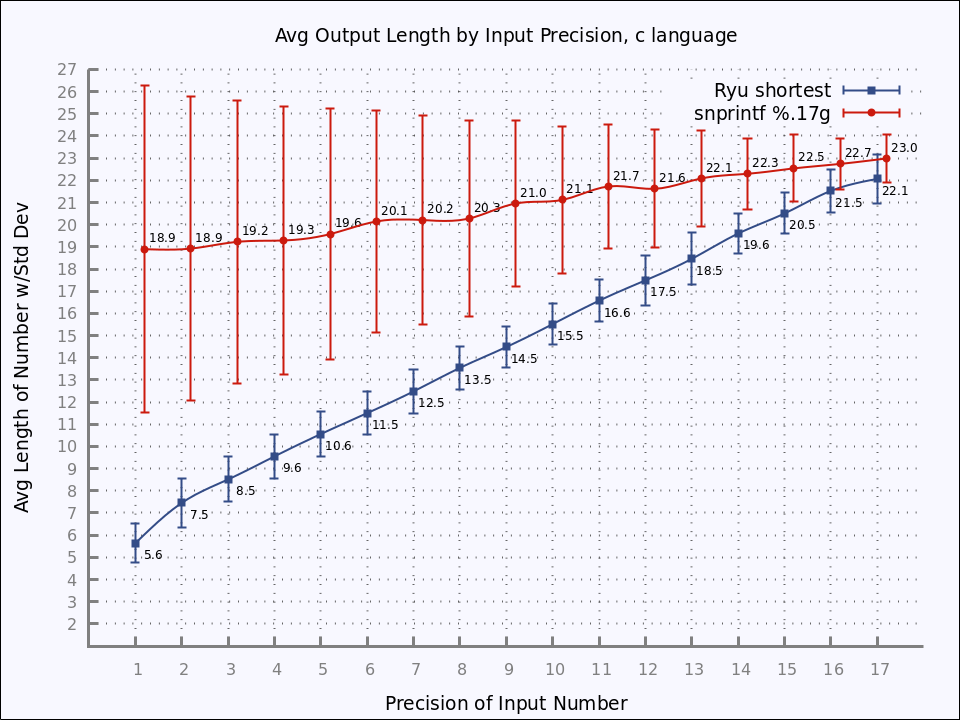
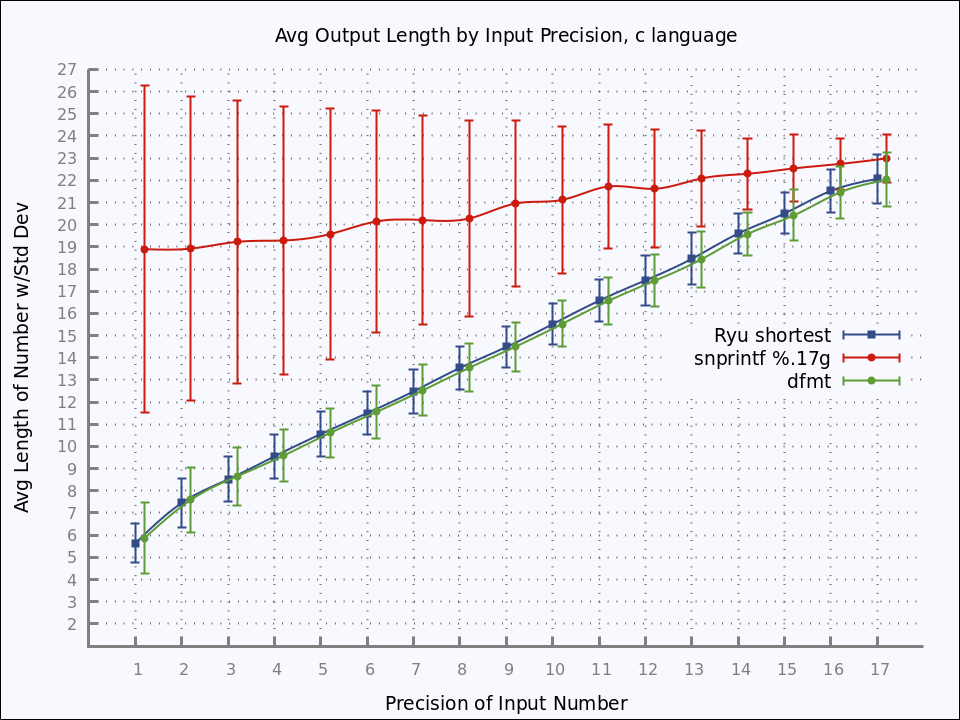
Initial quick and dirty implementation of dfmt.

diff --git a/src/c/ryu/d2s.c b/src/c/ryu/d2s.c
@@ -37,8 +37,8 @@
 
 #ifdef RYU_DEBUG
 #include <inttypes.h>
-#include <stdio.h>
 #endif
+#include <stdio.h>
 
 #include "ryu/common.h"
 #include "ryu/digit_table.h"
@@ -505,5 +505,127 @@ void d2s_buffered(double f, char* result) {
 char* d2s(double f) {
   char* const result = (char*) malloc(25);
   d2s_buffered(f, result);
+  return result;
+}
+
+int to_fixed_chars(char* result, int len, uint64_t mantissa, int32_t exponent) {
+    int neg = 0;
+    if (result[0] == '-') {
+        neg = 1;
+        result++;
+    }
+    if (exponent == 0) {
+        if (result[1] == '.') {
+            // 1.132E0 just strip off E0
+            return len - 2;
+        } else {
+            // 4E0 -> 4.0
+            const uint32_t olength = decimalLength17(mantissa);
+            result[olength] = '.';
+            result[olength + 1] = '0';
+            return 3 + neg;
+        }
+    }
+    else {
+        if (exponent > 0) {
+            if (result[1] == '.') {
+                const uint32_t olength = decimalLength17(mantissa);
+                memmove(result + 1, result + 2, exponent);
+                if (exponent + 1 >= olength) {
+                    if (exponent + 1 > olength) {
+                        memset(result + olength, '0', exponent + 1 - olength);
+                    }
+                    result[exponent + 1] = '.';
+                    result[exponent + 2] = '0';
+                    return exponent + 3 + neg;
+                } else {
+                    result[exponent + 1] = '.';
+                    return len - (decimalLength17(exponent) + 1);
+                }
+            } else {
+                memset(result + 1, '0', exponent);
+                result[exponent + 1] = '.';
+                result[exponent + 2] = '0';
+                return exponent + 3 + neg;
+            }
+        }
+        else {
+            const uint32_t elength = decimalLength17(exponent * -1) + 2;
+            if (result[1] == '.') {
+                memmove(result + 2 - exponent, result + 2, (len - elength) - 2 );
+                result[1 - exponent] = result[0];
+                memset(result, '0', 1 - exponent);
+                result[1] = '.';
+                return (len - elength) - exponent;
+            } else {
+                result[1 - exponent] = result[0];
+                memset(result, '0', 1 - exponent);
+                result[1] = '.';
+                return (len - elength) - exponent + 1;
+            }
+        }
+    }
+    return len;
+}
+
+int dfmt_n(double f, char* result) {
+  // Step 1: Decode the floating-point number, and unify normalized and subnormal cases.
+  const uint64_t bits = double_to_bits(f);
+
+#ifdef RYU_DEBUG
+  printf("IN=");
+  for (int32_t bit = 63; bit >= 0; --bit) {
+    printf("%d", (int) ((bits >> bit) & 1));
+  }
+  printf("\n");
+#endif
+
+  // Decode bits into sign, mantissa, and exponent.
+  const bool ieeeSign = ((bits >> (DOUBLE_MANTISSA_BITS + DOUBLE_EXPONENT_BITS)) & 1) != 0;
+  const uint64_t ieeeMantissa = bits & ((1ull << DOUBLE_MANTISSA_BITS) - 1);
+  const uint32_t ieeeExponent = (uint32_t) ((bits >> DOUBLE_MANTISSA_BITS) & ((1u << DOUBLE_EXPONENT_BITS) - 1));
+  // Case distinction; exit early for the easy cases.
+  if (ieeeExponent == ((1u << DOUBLE_EXPONENT_BITS) - 1u) || (ieeeExponent == 0 && ieeeMantissa == 0)) {
+    return copy_special_str(result, ieeeSign, ieeeExponent, ieeeMantissa);
+  }
+
+  floating_decimal_64 v;
+  const bool isSmallInt = d2d_small_int(ieeeMantissa, ieeeExponent, &v);
+  if (isSmallInt) {
+    // For small integers in the range [1, 2^53), v.mantissa might contain trailing (decimal) zeros.
+    // For scientific notation we need to move these zeros into the exponent.
+    // (This is not needed for fixed-point notation, so it might be beneficial to trim
+    // trailing zeros in to_chars only if needed - once fixed-point notation output is implemented.)
+    for (;;) {
+      const uint64_t q = div10(v.mantissa);
+      const uint32_t r = ((uint32_t) v.mantissa) - 10 * ((uint32_t) q);
+      if (r != 0) {
+        break;
+      }
+      v.mantissa = q;
+      ++v.exponent;
+    }
+  } else {
+    v = d2d(ieeeMantissa, ieeeExponent);
+  }
+
+  int len;
+  const uint32_t olength = decimalLength17(v.mantissa);
+  int32_t exp = v.exponent + (int32_t) olength - 1;
+  if ( exp <= -5 || exp >= 17) {
+      len = to_chars(v, ieeeSign, result);
+  } else {
+      len = to_chars(v, ieeeSign, result);
+      len = to_fixed_chars(result, len, v.mantissa, exp);
+  }
+
+  return len;
+}
+
+char *dfmt(double f, char* result) {
+  const int index = dfmt_n(f, result);
+
+  // Terminate the string.
+  result[index] = '\0';
   return result;
 }

diff --git a/src/c/ryu/benchmark/benchmark_shortest.c b/src/c/ryu/benchmark/benchmark_shortest.c
@@ -83,8 +83,9 @@ double generate_double(uint64_t* r) {
 
 static int bench64_general(const uint32_t samples, const uint32_t iterations, int alt, const bool parse, const bool csv, const bool verbose, const bool length) {
   char input[BUFFER_SIZE];
-  char bufferown[BUFFER_SIZE];
-  char buffer[BUFFER_SIZE];
+  char buffer_d2s[BUFFER_SIZE];
+  char buffer_dfmt[BUFFER_SIZE];
+  char buffer_snprintf[BUFFER_SIZE];
   int precision = 0;
   char fmt[100];
   int throwaway = 0;
@@ -100,6 +101,10 @@ static int bench64_general(const uint32_t samples, const uint32_t iterations, in
     init(&mv3);
     mean_and_variance mv4;
     init(&mv4);
+    mean_and_variance mv5;
+    init(&mv5);
+    mean_and_variance mv6;
+    init(&mv6);
     for (int i = 0; i < samples; ++i) {
       uint64_t r = 0;
       double f = generate_double(&r);
@@ -111,50 +116,68 @@ static int bench64_general(const uint32_t samples, const uint32_t iterations, in
 
       clock_t t1 = clock();
       for (int j = 0; j < iterations; ++j) {
-        d2s_buffered(f, bufferown);
-        throwaway += bufferown[2];
+        d2s_buffered(f, buffer_d2s);
+        throwaway += buffer_d2s[2];
       }
       clock_t t2 = clock();
       double delta1 = ((t2 - t1) * 1000000000.0) / ((double) iterations) / ((double) CLOCKS_PER_SEC);
       update(&mv1, delta1);
-      update(&mv3, (double) strlen(bufferown));
+      update(&mv2, (double) strlen(buffer_d2s));
 
       double delta2 = 0.0;
       t1 = clock();
       for (int j = 0; j < iterations; ++j) {
-        snprintf(buffer, BUFFER_SIZE, "%.17g", f);
-        throwaway += buffer[2];
+        snprintf(buffer_snprintf, BUFFER_SIZE, "%.17g", f);
+        throwaway += buffer_snprintf[2];
       }
       t2 = clock();
       delta2 = ((t2 - t1) * 1000000000.0) / ((double) iterations) / ((double) CLOCKS_PER_SEC);
-      update(&mv2, delta2);
-      update(&mv4, (double) strlen(buffer));
+      update(&mv3, delta2);
+      update(&mv4, (double) strlen(buffer_snprintf));
+
+      double delta3 = 0.0;
+      t1 = clock();
+      for (int j = 0; j < iterations; ++j) {
+        dfmt(f, buffer_dfmt);
+        throwaway += buffer_dfmt[2];
+      }
+      t2 = clock();
+      delta3 = ((t2 - t1) * 1000000000.0) / ((double) iterations) / ((double) CLOCKS_PER_SEC);
+      update(&mv5, delta3);
+      update(&mv6, (double) strlen(buffer_dfmt));
 
       // verbose implies csv
       if (verbose) {
         if (length) {
-            printf("%s,%" PRIu64 ",%f,%f,%s\n", bufferown, r, (double) strlen(bufferown), (double) strlen(buffer), buffer);
+            printf("%s,%" PRIu64 ",%f,%f,%f,%s,%s\n", buffer_d2s, r, (double) strlen(buffer_d2s), (double) strlen(buffer_snprintf), (double) strlen(buffer_dfmt), buffer_snprintf, buffer_dfmt);
         } else {
-            printf("%s,%" PRIu64 ",%f,%f,%s\n", bufferown, r, delta1, delta2, buffer);
+            printf("%s,%" PRIu64 ",%f,%f,%f,%s,%s\n", buffer_d2s, r, delta1, delta2, delta3, buffer_snprintf, buffer_dfmt);
         }
       }
     }
     if (!verbose) {
       if (length) {
         if (csv) {
-          printf("%d,%.3f,%.3f,", precision, mv3.mean, stddev(&mv3));
-          printf("%.3f,%.3f", mv4.mean, stddev(&mv4));
+          printf("%d,", precision);
+          printf("%.3f,%.3f,", mv2.mean, stddev(&mv2));
+          printf("%.3f,%.3f,", mv4.mean, stddev(&mv4));
+          printf("%.3f,%.3f", mv6.mean, stddev(&mv6));
         } else {
-          printf("%d %8.3f %8.3f", precision, mv3.mean, stddev(&mv3));
+          printf("%d", precision);
+          printf("%8.3f %8.3f", mv2.mean, stddev(&mv2));
           printf("     %8.3f %8.3f", mv4.mean, stddev(&mv4));
+          printf("     %8.3f %8.3f", mv6.mean, stddev(&mv6));
         }
       } else {
         if (csv) {
-          printf("%d,%.3f,%.3f,", precision, mv1.mean, stddev(&mv1));
-          printf("%.3f,%.3f", mv2.mean, stddev(&mv2));
+          printf("%d,", precision);
+          printf("%.3f,%.3f,", mv1.mean, stddev(&mv1));
+          printf("%.3f,%.3f,", mv3.mean, stddev(&mv3));
+          printf("%.3f,%.3f", mv5.mean, stddev(&mv5));
         } else {
           printf("%d %8.3f %8.3f", precision, mv1.mean, stddev(&mv1));
-          printf("     %8.3f %8.3f", mv2.mean, stddev(&mv2));
+          printf("     %8.3f %8.3f", mv3.mean, stddev(&mv3));
+          printf("     %8.3f %8.3f", mv5.mean, stddev(&mv5));
         }
       }
       printf("\n");

diff --git a/src/c/ryu/ryu.h b/src/c/ryu/ryu.h
@@ -39,6 +39,9 @@ int d2exp_buffered_n(double d, uint32_t precision, char* result);
 void d2exp_buffered(double d, uint32_t precision, char* result);
 char* d2exp(double d, uint32_t precision);
 
+int dfmt_buffered_n(double f, char* result);
+char *dfmt(double f, char* result);
+
 #ifdef __cplusplus
 }
 #endif

diff --git a/README.md b/README.md
@@ -4,15 +4,53 @@ Doubleback provides round-trip parsing and printing of 64-bit double-precision f
 
 The Doubleback project unifies code forked from various github projects. See Acknowledgements.
 
+glibc:
+```
+printf("%.17g", 0.3);
+0.29999999999999999
+```
+
+Ryu shortest:
+```
+char buf[32];
+d2s_buffered(0.3, buf);
+printf("%s", buf);
+3E-1
+```
+
+Doubleback dfmt - `Ryu shortest` reformatted to be like `printf("%.17g")`:
+```
+char buf[32];
+printf("%s", dfmt(0.3, buf));
+0.3
+```
+
+Ryu is an algorithm along with reference code developed by Ulf Adams, Google Germany in 2018 [1][2]. Ryu supports consistent round-trip parsing and "shortest" printing of 64-bit floating-point numbers. To be clear, Ryu is the breakthrough technology that makes Doubleback possible.
+
+There are many older and established algorithms for printing floats. However, Ryu is in a new class of recently developed algorithms that claim substantial improvements over previous efforts.
+
+These algorithms:
+* Produce a consistent round-trip representation for all 64-bit doubles
+* Produce the shortest length string from equivalent choices in all cases
+* Execute in a fraction of the time of previous efforts
+
+Doubleback merges forks of existing Ryu projects and modifies and enhances them to expose a consistent API. Doubleback tests APIs against each other for consistency.
+
+Doubleback implements printf %g equivalency which was not implemented previously by the reference Ryu project [3]
+
+[1] https://dl.acm.org/doi/10.1145/3296979.3192369
+[2] https://dl.acm.org/doi/pdf/10.1145/3360595
+[3] https://github.com/ulfjack/ryu  (There is a wealth of information about Ryu in the README here.)
+
 # Status
 
 Doubleback is in development and is not ready for use or contributions.
 
 # Roadmap for first release
 
-* Makefile test target
+* dfmt tests
 * Setup github actions
-* Standard interfaces
+* Java dfmt
 
 # Getting Started
 
@@ -34,9 +72,9 @@ Doubleback is derived from upstream projects.
 | Java     | https://github.com/ulfjack/ryu |
 
 
-# Charts that show Ryu is Fast with Short Output
+# Charts that show Doubleback/Ryu is Fast with Short Output
 
-![Ryu ranges from 10 to 20 times faster than standard printf](results/shortest-native-c-double-time.png "Time to Output")
+![Doubleback/Ryu ranges from 10 to 20 times faster than standard printf](results/shortest-native-c-double-time.png "Time to Output")
 
-![Ryu output is 30% to 96% out the output length](results/shortest-native-c-double-length.png "Output Length")
+![Doubleback/Ryu output is 30% to 96% out the output length](results/shortest-native-c-double-length.png "Output Length")
 
